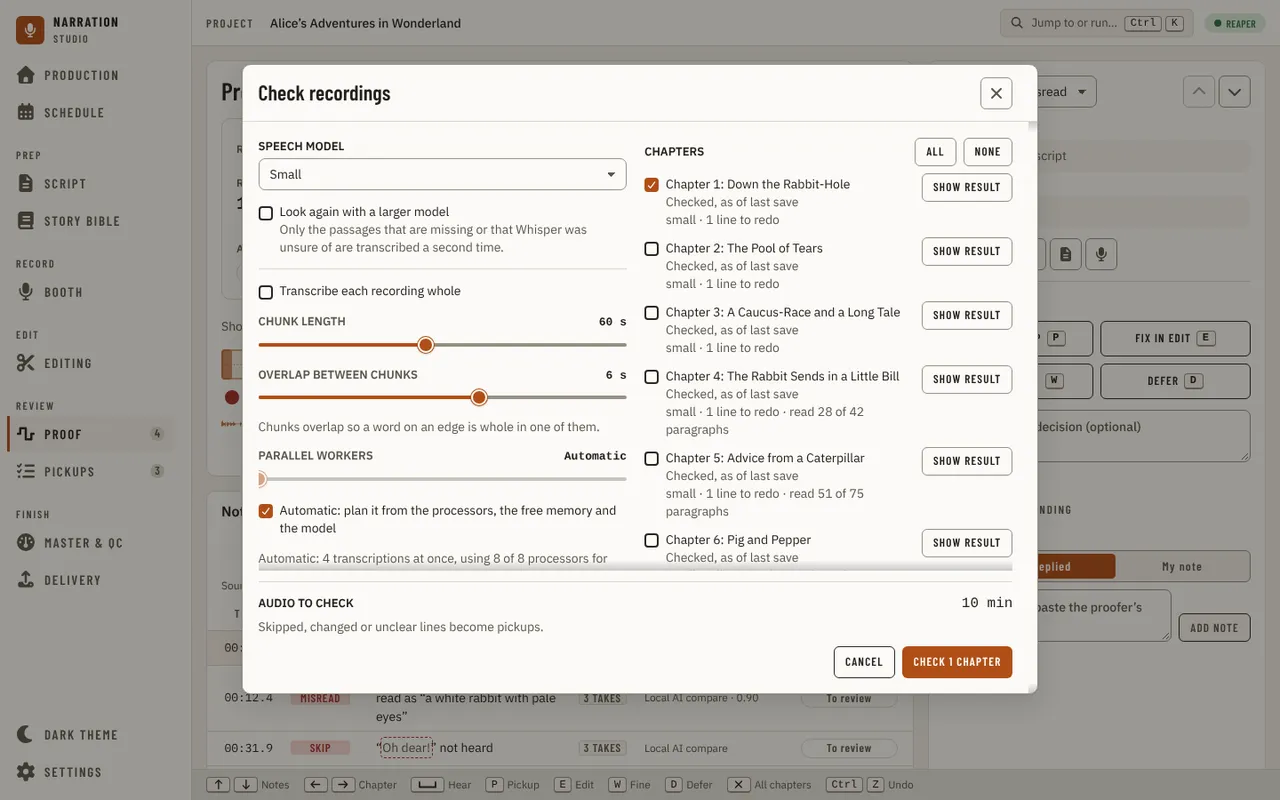
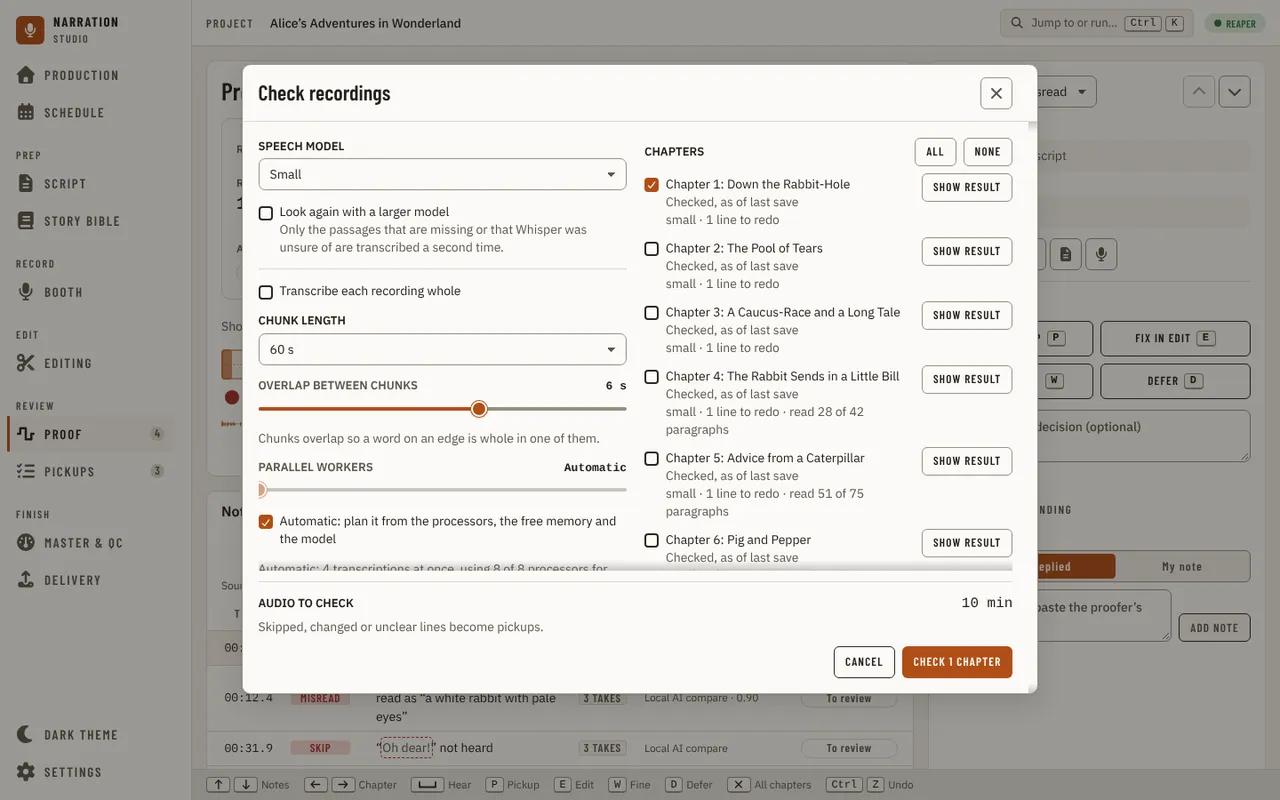
fix(recordingcheck): chunk length offers the lengths Settings does, up to 900 s (#3224)

Changed region(s): [[0.1875, 0.375, 0.5, 0.7188]]

diff --git a/src/studio/ui/src/components/recordingcheck/CheckRecordingsDialog.test.tsx b/src/studio/ui/src/components/recordingcheck/CheckRecordingsDialog.test.tsx
@@ -393,15 +393,12 @@ describe('CheckRecordingsDialog', () => {
     beforeEach(() => vi.stubGlobal('navigator', { ...navigator, hardwareConcurrency: 8 }));
     afterEach(() => vi.unstubAllGlobals());
     const option = (name: string) => screen.findByRole('combobox', { name });
-    const slider = (name: string) => screen.findByRole('slider', { name });
 
     it('begins at what the host would do and says it in words', async () => {
       const { api } = host();
       open(api, ['a']);
-      const chunk = (await slider('Chunk length')) as HTMLInputElement;
-      // The host's 300 s is past the slider's 120 s: the readout keeps the real figure and the thumb rests at the end.
-      expect(chunk.value).toBe('120');
-      expect(screen.getByText('300 s')).toBeTruthy();
+      // The host's 300 s is one of the choices Settings offers, so the select draws it as it is.
+      expect(((await option('Chunk length')) as HTMLSelectElement).value).toBe('300');
       expect((screen.getByRole('slider', { name: 'Overlap between chunks' }) as HTMLInputElement).value).toBe('6');
       expect(screen.getByText('Automatic')).toBeTruthy();
       expect((screen.getByRole('checkbox', { name: /Look again with a larger model/ }) as HTMLInputElement).getAttribute('aria-checked')).toBe('false');
@@ -410,11 +407,18 @@ describe('CheckRecordingsDialog', () => {
       expect(screen.queryByText(/Checking recordings runs speech recognition/)).toBeNull();
     });
 
+    it('the chunk length offers the choices Settings does, up to 900 s', async () => {
+      const { api } = host();
+      open(api, ['a']);
+      const chunk = (await option('Chunk length')) as HTMLSelectElement;
+      expect(Array.from(chunk.options).map((choice) => choice.value)).toEqual(['60', '120', '300', '600', '900']);
+      expect(chunk.options[4].textContent).toBe('900 s');
+    });
+
     it('the sliders cover the mock ranges', async () => {
       const { api } = host();
       open(api, ['a']);
-      const chunk = (await slider('Chunk length')) as HTMLInputElement;
-      expect([chunk.min, chunk.max, chunk.step]).toEqual(['10', '120', '5']);
+      await option('Chunk length');
       const overlap = screen.getByRole('slider', { name: 'Overlap between chunks' }) as HTMLInputElement;
       expect([overlap.min, overlap.max, overlap.step]).toEqual(['0', '10', '1']);
       const workers = screen.getByRole('slider', { name: 'Parallel workers' }) as HTMLInputElement;
@@ -428,9 +432,7 @@ describe('CheckRecordingsDialog', () => {
       const workers = screen.getByRole('slider', { name: 'Parallel workers' });
       workers.focus();
       await userEvent.keyboard('{Home}{ArrowRight}{ArrowRight}');
-      const chunk = screen.getByRole('slider', { name: 'Chunk length' });
-      chunk.focus();
-      await userEvent.keyboard('{Home}{End}');
+      await userEvent.selectOptions(await option('Chunk length'), '120');
       const overlap = screen.getByRole('slider', { name: 'Overlap between chunks' });
       overlap.focus();
       await userEvent.keyboard('{End}');
@@ -470,19 +472,19 @@ describe('CheckRecordingsDialog', () => {
       await userEvent.click(await screen.findByRole('checkbox', { name: /Transcribe each recording whole/ }));
       expect((screen.getByRole('slider', { name: 'Parallel workers' }) as HTMLInputElement).disabled).toBe(true);
       expect((screen.getByRole('slider', { name: 'Overlap between chunks' }) as HTMLInputElement).disabled).toBe(true);
-      expect((screen.getByRole('slider', { name: 'Chunk length' }) as HTMLInputElement).disabled).toBe(true);
+      expect((screen.getByRole('combobox', { name: 'Chunk length' }) as HTMLSelectElement).disabled).toBe(true);
+      expect((screen.getByRole('combobox', { name: 'Chunk length' }) as HTMLSelectElement).selectedOptions[0].textContent).toBe('Whole');
       expect(screen.getByText('Whisper small over each recording whole, one process.')).toBeTruthy();
       await userEvent.click(screen.getByRole('button', { name: 'Check 1 chapter' }));
       await waitFor(() => expect(sent).toHaveLength(1));
       expect(sent[0]).toMatchObject({ workers: 1, chunkSeconds: 0 });
     });
 
-    it('shows a setting the sliders do not reach instead of silently changing it', async () => {
+    it('shows a setting the controls do not offer instead of silently changing it', async () => {
       const odd: CoverageEngines = { ...engines, defaults: { ...engines.defaults, chunkSeconds: 240, overlapSeconds: 7, workers: 5, recheckBelow: 0.45 } };
       const { api, sent } = host({ coverageEngines: async () => odd });
       open(api, ['a']);
-      await slider('Chunk length');
-      expect(screen.getByText('240 s')).toBeTruthy();
+      expect(((await option('Chunk length')) as HTMLSelectElement).value).toBe('240');
       expect(screen.getByText('7 s')).toBeTruthy();
       expect(screen.getByText('5')).toBeTruthy();
       await userEvent.click(screen.getByRole('button', { name: 'Check 1 chapter' }));

diff --git a/src/studio/ui/src/components/recordingcheck/RunOptions.tsx b/src/studio/ui/src/components/recordingcheck/RunOptions.tsx
@@ -2,18 +2,22 @@ import type { CoverageEngine, CoverageEngines } from '../../api/contracts/covera
 import { Checkbox } from '../primitives/Checkbox';
 import { Select } from '../primitives/Select';
 import { Slider } from '../primitives/Slider';
+import { rowOf } from '../settings/registry/rows';
 import { engineOptionLabel } from './checkSelection';
 import { CHAPTERS_AT_ONCE, DOUBT_SHARES, runProblem, runSummary, withChoice, type RunChoices } from './runChoices';
 import { useWorkerPlan, workerPlanSentences } from './workerPlan';
 
 const engineOptions = (engines: readonly CoverageEngine[]) => engines.map((candidate) => ({ value: candidate.id, label: engineOptionLabel(candidate) }));
 
-/** The slider ranges of the mock's Check recordings dialog. A stored setting outside one is shown as it is and the thumb rests at the end. */
-const CHUNK_RANGE = { min: 10, max: 120, step: 5 };
+/** The chunk lengths Settings offers for Coverage chunk length (0 is the whole-recording checkbox), so the dialog and the setting can show the same values. */
+const CHUNK_CHOICES = Object.keys(rowOf('stt.chunk')?.options ?? {})
+  .map(Number)
+  .filter((seconds) => seconds > 0);
+/** The slider ranges of the Check recordings dialog. A stored setting outside one is shown as it is and the thumb rests at the end. */
 const OVERLAP_RANGE = { min: 0, max: 10, step: 1 };
 const WORKER_RANGE = { min: 1, max: 8, step: 1 };
 /** Where the chunk length lands when "Transcribe each recording whole" is turned off. */
-const SLIDER_CHUNK_DEFAULT = 60;
+const UNWHOLE_CHUNK_DEFAULT = 60;
 const clampTo = (value: number, range: { min: number; max: number }): number => Math.min(range.max, Math.max(range.min, value));
 
 const LABEL = 'text-[length:var(--font-size-sm)] font-semibold uppercase';
@@ -77,20 +81,23 @@ export function RunOptions({ engines, choices, onChange }: { engines: CoverageEn
       ) : null}
       <fieldset className="m-0 flex min-w-0 flex-col gap-3 border-0 border-t border-[var(--border)] p-0 pt-3">
         <legend className="sr-only">Long recordings</legend>
-        <Checkbox checked={whole} onChange={(on) => onChange({ chunkSeconds: on ? 0 : SLIDER_CHUNK_DEFAULT })}>
+        <Checkbox checked={whole} onChange={(on) => onChange({ chunkSeconds: on ? 0 : UNWHOLE_CHUNK_DEFAULT })}>
           Transcribe each recording whole
         </Checkbox>
-        <Slider
-          label={<span className={LABEL}>Chunk length</span>}
-          aria-label="Chunk length"
-          valueText={whole ? 'Whole' : `${choices.chunkSeconds} s`}
-          min={CHUNK_RANGE.min}
-          max={CHUNK_RANGE.max}
-          step={CHUNK_RANGE.step}
-          disabled={whole}
-          value={clampTo(choices.chunkSeconds, CHUNK_RANGE)}
-          onValueChange={(chunkSeconds) => onChange({ chunkSeconds })}
-        />
+        <label className="flex flex-col gap-1">
+          <span className={LABEL}>Chunk length</span>
+          <Select
+            label="Chunk length"
+            fullWidth
+            disabled={whole}
+            value={String(choices.chunkSeconds)}
+            onChange={(value) => onChange({ chunkSeconds: Number(value) })}
+            options={(whole ? [0] : withChoice(CHUNK_CHOICES, choices.chunkSeconds)).map((seconds) => ({
+              value: String(seconds),
+              label: seconds === 0 ? 'Whole' : `${seconds} s`,
+            }))}
+          />
+        </label>
         <Slider
           label={<span className={LABEL}>Overlap between chunks</span>}
           aria-label="Overlap between chunks"

diff --git a/src/studio/ui/src/components/recordingcheck/CheckRecordingsDialog.stories.tsx b/src/studio/ui/src/components/recordingcheck/CheckRecordingsDialog.stories.tsx
@@ -1,6 +1,6 @@
 import type { Meta, StoryObj } from '@storybook/react-vite';
 import { MemoryRouter } from 'react-router-dom';
-import { expect, within } from 'storybook/test';
+import { expect, userEvent, within } from 'storybook/test';
 import { ApiProvider } from '../../api/ApiContext';
 import { createMockApi } from '../../api/mockApi';
 import type { CoverageResult, CoverageStartResult } from '../../api/contracts/coverage';
@@ -154,5 +154,26 @@ export const SecondLookWithParallelChunks: Story = {
       ),
     ).toBeTruthy();
     await expect(canvas.getByRole('combobox', { name: 'Larger model' })).toBeTruthy();
+  },
+};
+
+export const WholeRecording: Story = {
+  parameters: { api: host() },
+  play: async ({ canvasElement }) => {
+    const canvas = within(canvasElement);
+    await userEvent.click(await canvas.findByRole('checkbox', { name: /Transcribe each recording whole/ }));
+    const chunk = canvas.getByRole('combobox', { name: 'Chunk length' }) as HTMLSelectElement;
+    await expect(chunk.disabled).toBe(true);
+    await expect(chunk.selectedOptions[0].textContent).toBe('Whole');
+  },
+};
+
+export const ChunkLengthSettingsDoNotOffer: Story = {
+  parameters: {
+    api: host({ coverageEngines: async () => ({ ...engines, defaults: { ...engines.defaults, chunkSeconds: 240 } }) }),
+  },
+  play: async ({ canvasElement }) => {
+    const chunk = (await within(canvasElement).findByRole('combobox', { name: 'Chunk length' })) as HTMLSelectElement;
+    await expect(chunk.value).toBe('240');
   },
 };

diff --git a/src/studio/ui/src/components/primitives/selectBox.ts b/src/studio/ui/src/components/primitives/selectBox.ts
@@ -2,4 +2,4 @@
 // kept clear at the right, so it looks like the app's other pickers beside it (the Booth's chapter picker, alignment audit XBO-20) and a long
 // label stops before the caret (R3MS-19). `Select` (a native `<select>`) and `TreeSelect` (a button over a tree) share it so the two read as one control.
 export const SELECT_BOX_CLASSES =
-  'box-border h-[var(--control-height)] appearance-none rounded-[var(--control-radius)] border border-[var(--line-strong)] bg-[var(--surface)] bg-no-repeat py-0 pr-8 pl-3 text-[0.88rem] leading-[1.35] text-[var(--text)] [background-image:linear-gradient(45deg,transparent_50%,var(--text-muted)_50%),linear-gradient(135deg,var(--text-muted)_50%,transparent_50%)] [background-position:calc(100%-1rem)_50%,calc(100%-0.6875rem)_50%] [background-size:0.3125rem_0.3125rem,0.3125rem_0.3125rem]';
+  'box-border h-[var(--control-height)] appearance-none rounded-[var(--control-radius)] border border-[var(--line-strong)] bg-[var(--surface)] bg-no-repeat py-0 pr-8 pl-3 text-[0.88rem] leading-[1.35] text-[var(--text)] disabled:cursor-not-allowed disabled:bg-[var(--surface-2)] disabled:text-[var(--text-muted)] [background-image:linear-gradient(45deg,transparent_50%,var(--text-muted)_50%),linear-gradient(135deg,var(--text-muted)_50%,transparent_50%)] [background-position:calc(100%-1rem)_50%,calc(100%-0.6875rem)_50%] [background-size:0.3125rem_0.3125rem,0.3125rem_0.3125rem]';

diff --git a/src/studio/ui/src/components/primitives/Select.test.tsx b/src/studio/ui/src/components/primitives/Select.test.tsx
@@ -36,6 +36,15 @@ describe('Select', () => {
     expect(select.value).toBe('a');
   });
 
+  it("reads disabled in the one look every consumer shares: Button's muted label on a --surface-2 fill, not a call site's own dimming (#3194)", () => {
+    render(<Select label="Chunk length" value="a" onChange={() => undefined} options={OPTIONS} disabled />);
+    const select = screen.getByRole('combobox', { name: 'Chunk length' }) as HTMLSelectElement;
+    expect(select.disabled).toBe(true);
+    for (const look of ['disabled:bg-[var(--surface-2)]', 'disabled:text-[var(--text-muted)]', 'disabled:cursor-not-allowed'])
+      expect(select.className).toContain(look);
+    expect(select.className).not.toMatch(/disabled:opacity/);
+  });
+
   it('reports the chosen value when the change is fired the way the existing tests fire it', () => {
     const onChange = vi.fn();
     render(<Controlled onChange={onChange} />);

diff --git a/src/studio/ui/src/components/delivery/profile/ProfileCard.test.tsx b/src/studio/ui/src/components/delivery/profile/ProfileCard.test.tsx
@@ -133,12 +133,12 @@ describe('ProfileCard', () => {
 
 // Alignment audit (#2251), R4DL-1: a built-in profile's menu was locked during a build with nothing to say so.
 describe('profile-card-alignment', () => {
-  it('a built-in profile says it is locked while it builds, and its menu is dimmed', async () => {
+  it('a built-in profile says it is locked while it builds, and its menu reads disabled', async () => {
     mount({}, MOCK_ACX, { locked: true });
     expect(await screen.findByText('Locked while it builds')).toBeTruthy();
     expect(screen.queryByText('Built in')).toBeNull();
     const menu = screen.getByRole('combobox', { name: /^Delivery profile/ });
     expect(menu.hasAttribute('disabled')).toBe(true);
-    expect(menu.className).toContain('disabled:opacity-55');
+    expect(menu.className).toContain('disabled:text-[var(--text-muted)]');
   });
 });

diff --git a/src/studio/ui/src/components/delivery/profile/ProfileMenu.tsx b/src/studio/ui/src/components/delivery/profile/ProfileMenu.tsx
@@ -32,8 +32,7 @@ export function ProfileMenu({
       value={deliveryProfileKey(current)}
       disabled={disabled}
       ref={selectRef}
-      // A native select draws nothing for `disabled`: dimmed as a disabled Button is, so a locked menu does not look live (R4DL-1).
-      className="max-w-[16rem] min-w-0 truncate disabled:cursor-not-allowed disabled:opacity-55"
+      className="max-w-[16rem] min-w-0 truncate"
       options={list.map((profile) => ({ value: deliveryProfileKey(profile), label: profileMenuLabel(profile) }))}
       onChange={(key) => {
         const next = list.find((profile) => deliveryProfileKey(profile) === key);

diff --git a/src/studio/ui/src/components/delivery/profile/ProfileCard.stories.tsx b/src/studio/ui/src/components/delivery/profile/ProfileCard.stories.tsx
@@ -69,3 +69,13 @@ export const SaveRefused: Story = {
     (box as HTMLInputElement).value = '-25';
   },
 };
+
+// Locked (a measurement is running): the profile menu is a disabled native select and reads disabled, not live.
+export const Locked: Story = {
+  parameters: { api: host(MOCK_ACX) },
+  args: { locked: true },
+  play: async ({ canvasElement }) => {
+    const menu = await within(canvasElement).findByRole('combobox');
+    await expect((menu as HTMLSelectElement).disabled).toBe(true);
+  },
+};

diff --git a/docs/design/design-system.md b/docs/design/design-system.md
@@ -41,7 +41,7 @@ Location: `src/studio/ui/src/components/primitives/`.
 | `SearchField` | `TextField` with a clear button inside once there is text | The clear button is a quiet 28 px `IconButton variant="ghost" size="xs"` (no border or fill until hovered), not a bordered square inside the field's border (alignment audit R4SE2-2, XPF-21); it reports `''` and puts focus back in the field; `leadingIcon` draws a magnifier inside the box at its left for a field with no other sign that it searches (the Settings page's **Search settings**, whose page-frame magnifier outside the box was dropped in #2387; XSE1-19); `combobox` gives it the `role` and the `aria-controls`, `aria-activedescendant` and `aria-expanded` of a list it drives (the Booth's speaker picker); used by the manuscript reader, the Story Bible list and, through `SearchList`, that picker and the Booth's voice list |
 | `NumberInput` | A text box for a number that keeps what is being typed | Built on `TextField` (`inputMode="decimal"`, mono), not Base UI's number field, which settles a half-typed entry on every keystroke. Controlled: `value`, `onValueChange(number)`, `min`, `max`, `step` (default 1), `invalid`. A valid in-range number applies at once. An empty, out-of-range or non-number entry settles on blur or Enter: out of range clamps to `min` or `max`, anything else puts the last value back, and Enter then selects the text. Arrow Up and Arrow Down step by `step`, keep the longer of the step's and the value's decimal places, and stop at the limits. The caller's `onKeyDown` runs first and a prevented event is left alone. Named like `TextField`; forwards the ref |
 | `Slider` | One number on a range, on Base UI Slider | Controlled: `value`, `onValueChange(number)`, `min` 0, `max` 100, `step` 1; it never holds its own value. A 4 px track and an 18 px thumb; the track runs from under the label's left edge to under the value's right edge (the control keeps the thumb's 9 px inset and is pulled out by it, so a thumb at either limit overhangs the row by 9 px; alignment audit cause F). Base UI supplies the native range input, so the arrow keys step by `step`, Home and End jump to the limits, Page Up and Page Down take a larger step, and a drag follows the pointer. `label` (left) and `valueText` (right, for example "28 px") draw a header row; a string `valueText` is also the thumb's `aria-valuetext`. The name is `aria-label`, else a string `label`, else the visible label by `aria-labelledby`. With neither `label` nor `valueText` there is no header and the page supplies its own. `id` and `data-*` attributes land on the range input, the element with role `slider`, so a page or a test can address it. The focus ring shows on keyboard focus (`--focus`) |
-| `Select` | The native `<select>`, drawn with the tokens | Stays native on purpose: `fireEvent.change` and Playwright's `selectOption` work, and the list it opens is the system's; the closed box is ours (`appearance-none`), with its own caret drawn in `--text-muted` in 2 rem kept clear at the right, so it reads as one family with the app's other pickers beside it (the Booth's chapter picker, alignment audit XBO-20) and a long label stops before the caret (R3MS-19) and ends in an ellipsis inside its container (`truncate`, `max-w-full`), with the whole name as the box's tooltip (`title`, the label of the option showing, #2898). Its own `max-w-full` and `min-w-0` are added only when the caller sets no `max-w-*` or `min-w-*` of its own (the stylesheet orders `max-w-full` after `max-w-80` and `max-w-[260px]`, so both together would override the caller's cap); a container that sizes to its widest child (an `items-start` column, an auto table, a `grid auto` cell) still needs its own cap. The research mock leaves its selects to the system; this departs from it for that reason; `options` are `{ value, label, group? }` (consecutive options with one `group` sit under an `<optgroup>` heading, and an option with none sits outside any); `onChange(value)`; named like `TextField`; `fullWidth` for a form column. `Select`, `TextField` (`md`), `DateField`, `Field`'s one-line input and `Button` (`md`) are one height, `--control-height` (36 px, `--button-height`), and `TextField` `sm` is `--control-height-sm` (32 px), so controls on one row line up (`controlHeight.test.ts`); the focus ring shows on keyboard focus only (`:focus-visible`, not `:focus`), and an unselected `RadioGroup` option fills `--surface-3` with a `--border` rim, mock-measured. `Select` has no non-native form: a choice among nested items is `TreeSelect`, which borrows only the closed box (`selectBox.ts`). |
+| `Select` | The native `<select>`, drawn with the tokens | Stays native on purpose: `fireEvent.change` and Playwright's `selectOption` work, and the list it opens is the system's; the closed box is ours (`appearance-none`), with its own caret drawn in `--text-muted` in 2 rem kept clear at the right, so it reads as one family with the app's other pickers beside it (the Booth's chapter picker, alignment audit XBO-20) and a long label stops before the caret (R3MS-19) and ends in an ellipsis inside its container (`truncate`, `max-w-full`), with the whole name as the box's tooltip (`title`, the label of the option showing, #2898). Its own `max-w-full` and `min-w-0` are added only when the caller sets no `max-w-*` or `min-w-*` of its own (the stylesheet orders `max-w-full` after `max-w-80` and `max-w-[260px]`, so both together would override the caller's cap); a container that sizes to its widest child (an `items-start` column, an auto table, a `grid auto` cell) still needs its own cap. The research mock leaves its selects to the system; this departs from it for that reason; `options` are `{ value, label, group? }` (consecutive options with one `group` sit under an `<optgroup>` heading, and an option with none sits outside any); `onChange(value)`; named like `TextField`; `fullWidth` for a form column. `Select`, `TextField` (`md`), `DateField`, `Field`'s one-line input and `Button` (`md`) are one height, `--control-height` (36 px, `--button-height`), and `TextField` `sm` is `--control-height-sm` (32 px), so controls on one row line up (`controlHeight.test.ts`); the focus ring shows on keyboard focus only (`:focus-visible`, not `:focus`), and an unselected `RadioGroup` option fills `--surface-3` with a `--border` rim, mock-measured. `Select` has no non-native form: a choice among nested items is `TreeSelect`, which borrows only the closed box (`selectBox.ts`); disabled, it is `Button`'s look: a `--surface-2` fill and a `--text-muted` label (#3194) |
 | `TreeSelect` | A picker whose list is a tree in a popover, for a choice among nested items (REAPER tracks in folders); `Select` stays native and cannot show a tree | The one non-native picker, kept apart from `Select` so `Select`'s native rule has no exception (R15, #2643). Its closed box is `Select`'s (same caret, height and edge) and it is a `button` named `label: what it shows`; `shown` is the pick as `path` and `name`, the path capped at 40% of the box and ellipsized, so a long path never squeezes the name to a stub. The popover holds a `SearchField` and one `role="tree"` per `sections` entry (named by its `heading`, else by `label`), with keys from `treeKeyHandler` (Down from the search box enters the list, Enter picks, Left and Right close and open a folder). The caller flattens its tree to the rows showing (`key`, `id`, `label`, `level`, `posInSet`, `setSize`, a `folder` with its `open` state, a `mark`, a `note`, a `flat` search result with no caret or guides) and owns the search text and which folders are open; a row with a `disabledReason` is drawn `aria-disabled` with the reason as its tooltip and a short `disabledNote` (default: the reason) at the right, and a press only opens or closes it when it is a folder. The track picker (`TrackTreePicker`) is its one caller |
 | `TreeCaret` (with `IndentGuides`, `TREE_INDENT`) | The caret of a folder row and the guides of the levels above a row | Shared by the Tracks card's `Table tree` and `TreeSelect` so the two trees cannot drift; the caret is an `IconButton` named "Open/Close <folder>", out of the tab order (the row is the stop); a row that is no folder gets a blank of the caret's width. `--g` (`TREE_INDENT`) sets one level's indent, 1 rem on a narrow card and 1.25 rem on a wide one |
 | `RadioGroup` | A named choice of one from a short list, every option and its help text visible at once | Base UI Radio; `label` names the `radiogroup`, `options` are `{ value, label, description?, disabled?, reason? }`, `onChange(value)`. The description sits outside the `label` element, so a screen reader hears the option's name alone. A disabled option's `reason` is a tooltip over it and its `aria-describedby` text (screen-reader only), never text in the page. The unselected radio fills `--surface-3` with a `--border` rim. For a handful of options seen side by side; a long list is a `Select` |

diff --git a/docs/guides/using-the-app/production.md b/docs/guides/using-the-app/production.md
@@ -193,13 +193,12 @@ you press **Check**. Save the project in REAPER before checking, because the che
 
 **Speech model** is the first pass. **Look again with a larger model** adds a second pass: the **Larger model** transcribes again only
 the passages that are missing and the words Whisper scored under the **Also look again at words scored under**
-share. Three sliders set how a long chapter is read: **Chunk length** (10 to 120 s, in steps
-of 5) cuts each recording into pieces, **Overlap between chunks** (0 to 10 s) is how much neighbouring pieces overlap, so a
+share. **Chunk length** (the same lengths as Settings: 60, 120, 300, 600 or 900 s) cuts each recording into pieces, **Overlap between chunks** (0 to 10 s) is how much neighbouring pieces overlap, so a
 word on an edge is whole in one of them, and **Parallel workers** (1 to 8) is how many recordings, or pieces of one long recording, are
 transcribed side by side (each holds a copy of the model in memory). **Transcribe each recording whole** turns the chunks off and leaves one, and
 **Automatic: plan it from the processors, the free memory and the model** hands the count back to the app. The line under it says what will run
-and why, for example "Automatic: 3 transcriptions at once, using 6 of 8 processors for the Large v3 model. Set by the memory: …". A setting the sliders do not reach, such as a 5 min chunk from Settings, shows its real figure
-and is kept until you move the slider. A line under the choices says what will run, in words. **Chapters at once** checks that many of the ticked chapters together, each with its own share of the
+and why, for example "Automatic: 3 transcriptions at once, using 6 of 8 processors for the Large v3 model. Set by the memory: …". A setting the controls do not offer, such as a 4 min chunk edited by hand, shows its real figure
+and is kept until you change it. A line under the choices says what will run, in words. **Chapters at once** checks that many of the ticked chapters together, each with its own share of the
 processors and the memory, and starts the next as each ends. The options start at the values in Settings, and the check runs exactly what the dialog
 shows, so a chapter is checked the same way wherever you start it, including in the background. A model that is not installed yet
 is marked **(not installed)** in the lists and named under the options; **Check** then asks before downloading it, with the model's

diff --git a/docs/ui/atlas/index.md b/docs/ui/atlas/index.md
@@ -25,7 +25,7 @@ Generated by `pnpm --dir src/studio/ui docs:atlas` from the Storybook build. Do 
 - [Checkbox](Checkbox.md): 8 stories
 - [CheckCard](CheckCard.md): 7 stories
 - [CheckCountsCard](CheckCountsCard.md): 2 stories
-- [CheckRecordingsDialog](CheckRecordingsDialog.md): 6 stories
+- [CheckRecordingsDialog](CheckRecordingsDialog.md): 8 stories
 - [Cleanup](Cleanup.md): 18 stories
 - [Collapsible](Collapsible.md): 3 stories
 - [CompactShell](CompactShell.md): 5 stories
@@ -100,7 +100,7 @@ Generated by `pnpm --dir src/studio/ui docs:atlas` from the Storybook build. Do 
 - [PipelineTable](PipelineTable.md): 5 stories
 - [Popover](Popover.md): 4 stories
 - [Prep](Prep.md): 9 stories
-- [ProfileCard](ProfileCard.md): 3 stories
+- [ProfileCard](ProfileCard.md): 4 stories
 - [ProgressBar](ProgressBar.md): 7 stories
 - [ProgressChart](ProgressChart.md): 8 stories
 - [PronSourceTag](PronSourceTag.md): 7 stories

diff --git a/docs/ui/atlas/CheckRecordingsDialog.md b/docs/ui/atlas/CheckRecordingsDialog.md
@@ -12,6 +12,8 @@ Storybook title: `RecordingCheck/CheckRecordingsDialog`. Source: `src/components
 - Credits Row Chapter
 - No Recorded Chapters
 - Second Look With Parallel Chunks
+- Whole Recording
+- Chunk Length Settings Do Not Offer
 
 ## Used by
 
